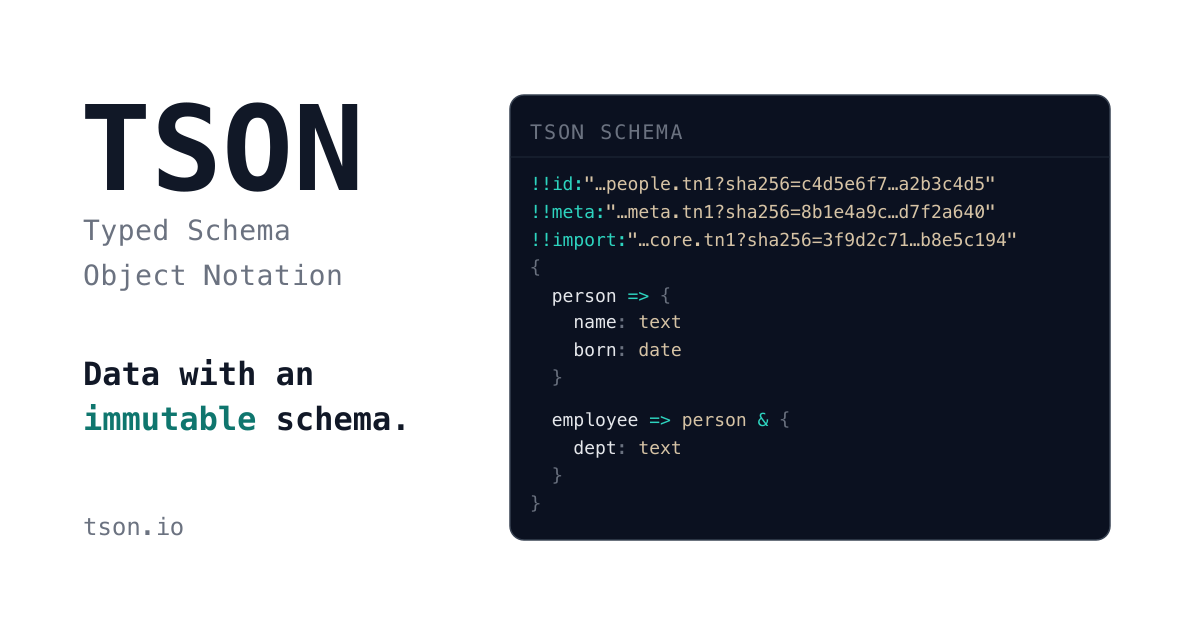
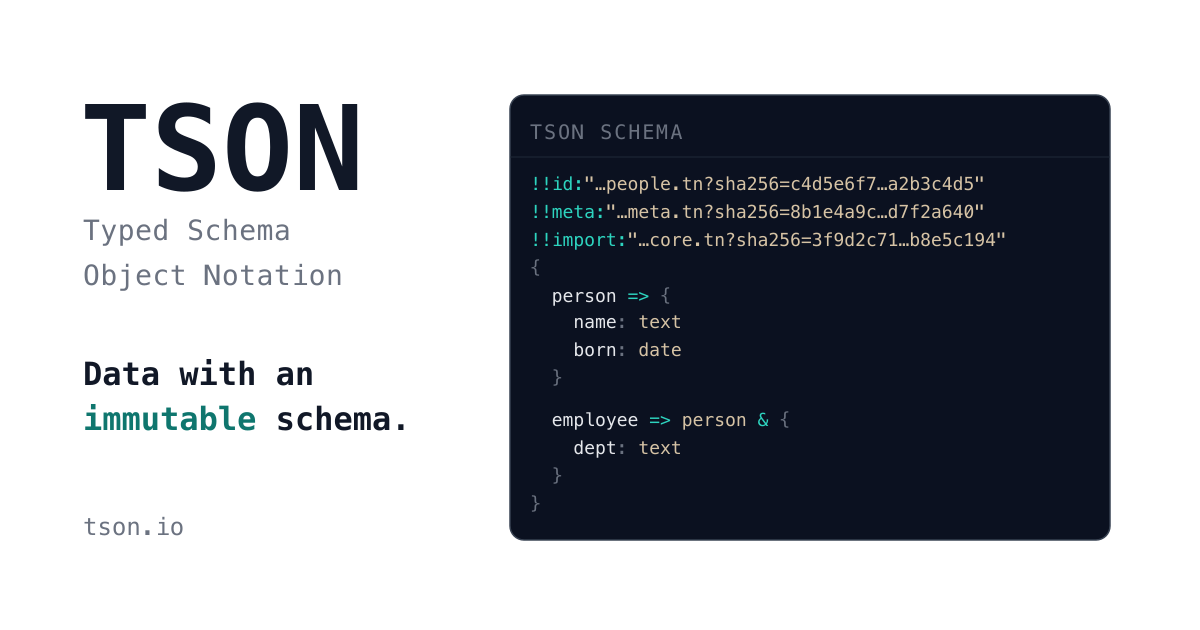
Switch the schema file extension from .tn1 to .tn
The hash-pinned !!id/!!meta/!!import URLs added in 3ccc955 name .tn
documents, but the files were served as .tn1 — every pinned URL in the
chain resolved to nothing. Rename the six schema and fixture files to
match the identities they now assert, in both the src sources and the
public/ copies that are actually served.

Everything that names or serves them follows: the _headers content-type
glob, the /llms.txt schema index, the /2026/{revision} file lists, the
home page's example snippets, and the OG share image (re-rendered from
the updated SVG).

The three spec documents still carry .tn1 throughout, including Part 1
§7's normative "version 1 uses the file extension .tn1, future major
versions use .tn2" rule — that paragraph is a design decision, not a
find-replace, so the spec prose is left for the author's next batch.
Until then the spec pages' links to /2026/32/m/*.tn1 will 404.

Also still unpinned, and left alone: meta-kernel's self-referencing
!!meta, and the fixtures' !!id/!!schema headers.

Changed region(s): [[0.5858, 0.2714, 0.8633, 0.3921]]

diff --git a/src/pages/llms.txt.ts b/src/pages/llms.txt.ts
@@ -38,9 +38,9 @@ export const GET: APIRoute = async ({ site }) => {
       : []),
     '## Schema Source Files',
     '',
-    `- [meta-kernel.tn1](${base}/2026/${CURRENT_REVISION}/m/meta-kernel.tn1): Base kind constructors and the IS-A lattice root`,
-    `- [meta.tn1](${base}/2026/${CURRENT_REVISION}/m/meta.tn1): Annotation types and schema-level directives`,
-    `- [core.tn1](${base}/2026/${CURRENT_REVISION}/m/core.tn1): Core type library for data interchange`,
+    `- [meta-kernel.tn](${base}/2026/${CURRENT_REVISION}/m/meta-kernel.tn): Base kind constructors and the IS-A lattice root`,
+    `- [meta.tn](${base}/2026/${CURRENT_REVISION}/m/meta.tn): Annotation types and schema-level directives`,
+    `- [core.tn](${base}/2026/${CURRENT_REVISION}/m/core.tn): Core type library for data interchange`,
     '',
     otherTsons.trim(),
     '',

diff --git a/AGENTS.md b/AGENTS.md
@@ -25,8 +25,8 @@ Manage the background server with `astro dev stop`, `astro dev status`, and `ast
 ## Revision-scoped `/2026` paths
 
 The spec/schema files live under a revision number so a hash-pinned reference never breaks:
-`src/content/2026/{revision}/*.md` (Part 1/2, the guide), `src/content/2026/{revision}/m/*.tn1`
-(meta-kernel, meta, core), and `src/content/2026/{revision}/fixtures/*.tn1` (their resolved-output
+`src/content/2026/{revision}/*.md` (Part 1/2, the guide), `src/content/2026/{revision}/m/*.tn`
+(meta-kernel, meta, core), and `src/content/2026/{revision}/fixtures/*.tn` (their resolved-output
 fixtures). `CURRENT_REVISION` in `src/lib/spec.ts` is the single source of truth for which
 revision is "current" — the home page, `/llms.txt`, `/sitemap.xml`, and `public/_redirects` all
 key off it. `/2026` itself is a redirect (real 302 via `public/_redirects`, plus a static
@@ -38,42 +38,42 @@ real, hash-pinnable document.
 2. Update the copies' self-referencing `!!id`/`!!meta`/`!!import`/`!!schema` URLs from
    `/2026/32/...` to `/2026/33/...`.
 3. Bump `CURRENT_REVISION` in `src/lib/spec.ts` to `'33'`.
-4. Add a `/2026/33/m/*.tn1` block to `public/_headers` (leave the old revision's block in place —
+4. Add a `/2026/33/m/*.tn` block to `public/_headers` (leave the old revision's block in place —
    it's still served).
 5. Update the target in `public/_redirects` to `/2026/33`.
 6. Run the public-sync step below for the new revision's files.
 
 ## Schema files and public sync
 
-`src/content/2026/{revision}/m/*.tn1` and `src/content/2026/{revision}/fixtures/*.tn1` are the
+`src/content/2026/{revision}/m/*.tn` and `src/content/2026/{revision}/fixtures/*.tn` are the
 sources of truth, but they're served live from `public/2026/{revision}/m/` as static files outside
 Astro's content-collection pipeline. After editing any of them, copy the changed files into
 `public/2026/{revision}/m/` — otherwise the deployed site serves stale schemas even though the
 source and the build both look correct:
 
 ```
-cp src/content/2026/32/m/*.tn1 src/content/2026/32/fixtures/*.tn1 public/2026/32/m/
+cp src/content/2026/32/m/*.tn src/content/2026/32/fixtures/*.tn public/2026/32/m/
 ```
 
 Run `npx astro build` before committing spec or schema changes — it's the only check that
 catches a broken content-collection frontmatter field or a stale cross-reference between the
-`.tn1` files and the spec prose that describes them.
+`.tn` files and the spec prose that describes them.
 
 ## Working on the specification
 
 Part 1 (`tson-part1-data.md`), Part 2 (`tson-part2-schema.md`), the developer guide
-(`tson-guide.md`), the three `.tn1` schema sources, and their resolved fixtures are edited
+(`tson-guide.md`), the three `.tn` schema sources, and their resolved fixtures are edited
 directly by the author outside of Claude Code and land as batches of changes to summarize and
 commit. When asked to summarize and commit a landed batch:
 
-- Read every changed file's diff before writing the commit message — the `.tn1` files usually
+- Read every changed file's diff before writing the commit message — the `.tn` files usually
   carry the real semantic change (new fields, constructors, grammar), while the spec prose
   documents it; a commit message written from only one side will miss half the change.
 - Write commit messages that describe the actual design change (what construct was added/changed
   and why), not a reworded diff.
 - Don't silently "fix" inconsistencies in in-progress spec text — the author is mid-revision and
   earlier sections may deliberately lag behind. The exception is unambiguous artifacts (a
-  duplicated heading, a resolved fixture that's fallen out of sync with its `.tn1` source) —
+  duplicated heading, a resolved fixture that's fallen out of sync with its `.tn` source) —
   those are safe to fix, and worth calling out explicitly in the commit message.
 
 ## Documentation

diff --git a/README.md b/README.md
@@ -64,7 +64,7 @@ src/
     2026/
       32/                # A revision-scoped draft — see "Revision-scoped paths" below
         *.md             # TSON Part 1/2 and companion docs (tson-guide.md)
-        m/                # .tn1 schema source files (meta-kernel, meta, core)
+        m/                # .tn schema source files (meta-kernel, meta, core)
         fixtures/          # Non-normative resolved-output fixtures for the schema source files
     research/
       deep-dive-into-json/   # "A Deep Dive into JSON" article series
@@ -87,7 +87,7 @@ src/
     llmsTxt.ts          # Shared helpers for the llms.txt endpoints
     spec.ts             # CURRENT_REVISION — the single source of truth for "the latest draft"
 public/
-  2026/32/m/             # Static .tn1 schema + resolved-fixture files served as-is
+  2026/32/m/             # Static .tn schema + resolved-fixture files served as-is
   _redirects              # /2026 -> /2026/{current revision}, a real 302
   images/                # Images extracted from the research articles
   robots.txt             # Content-Signal preferences + sitemap reference
